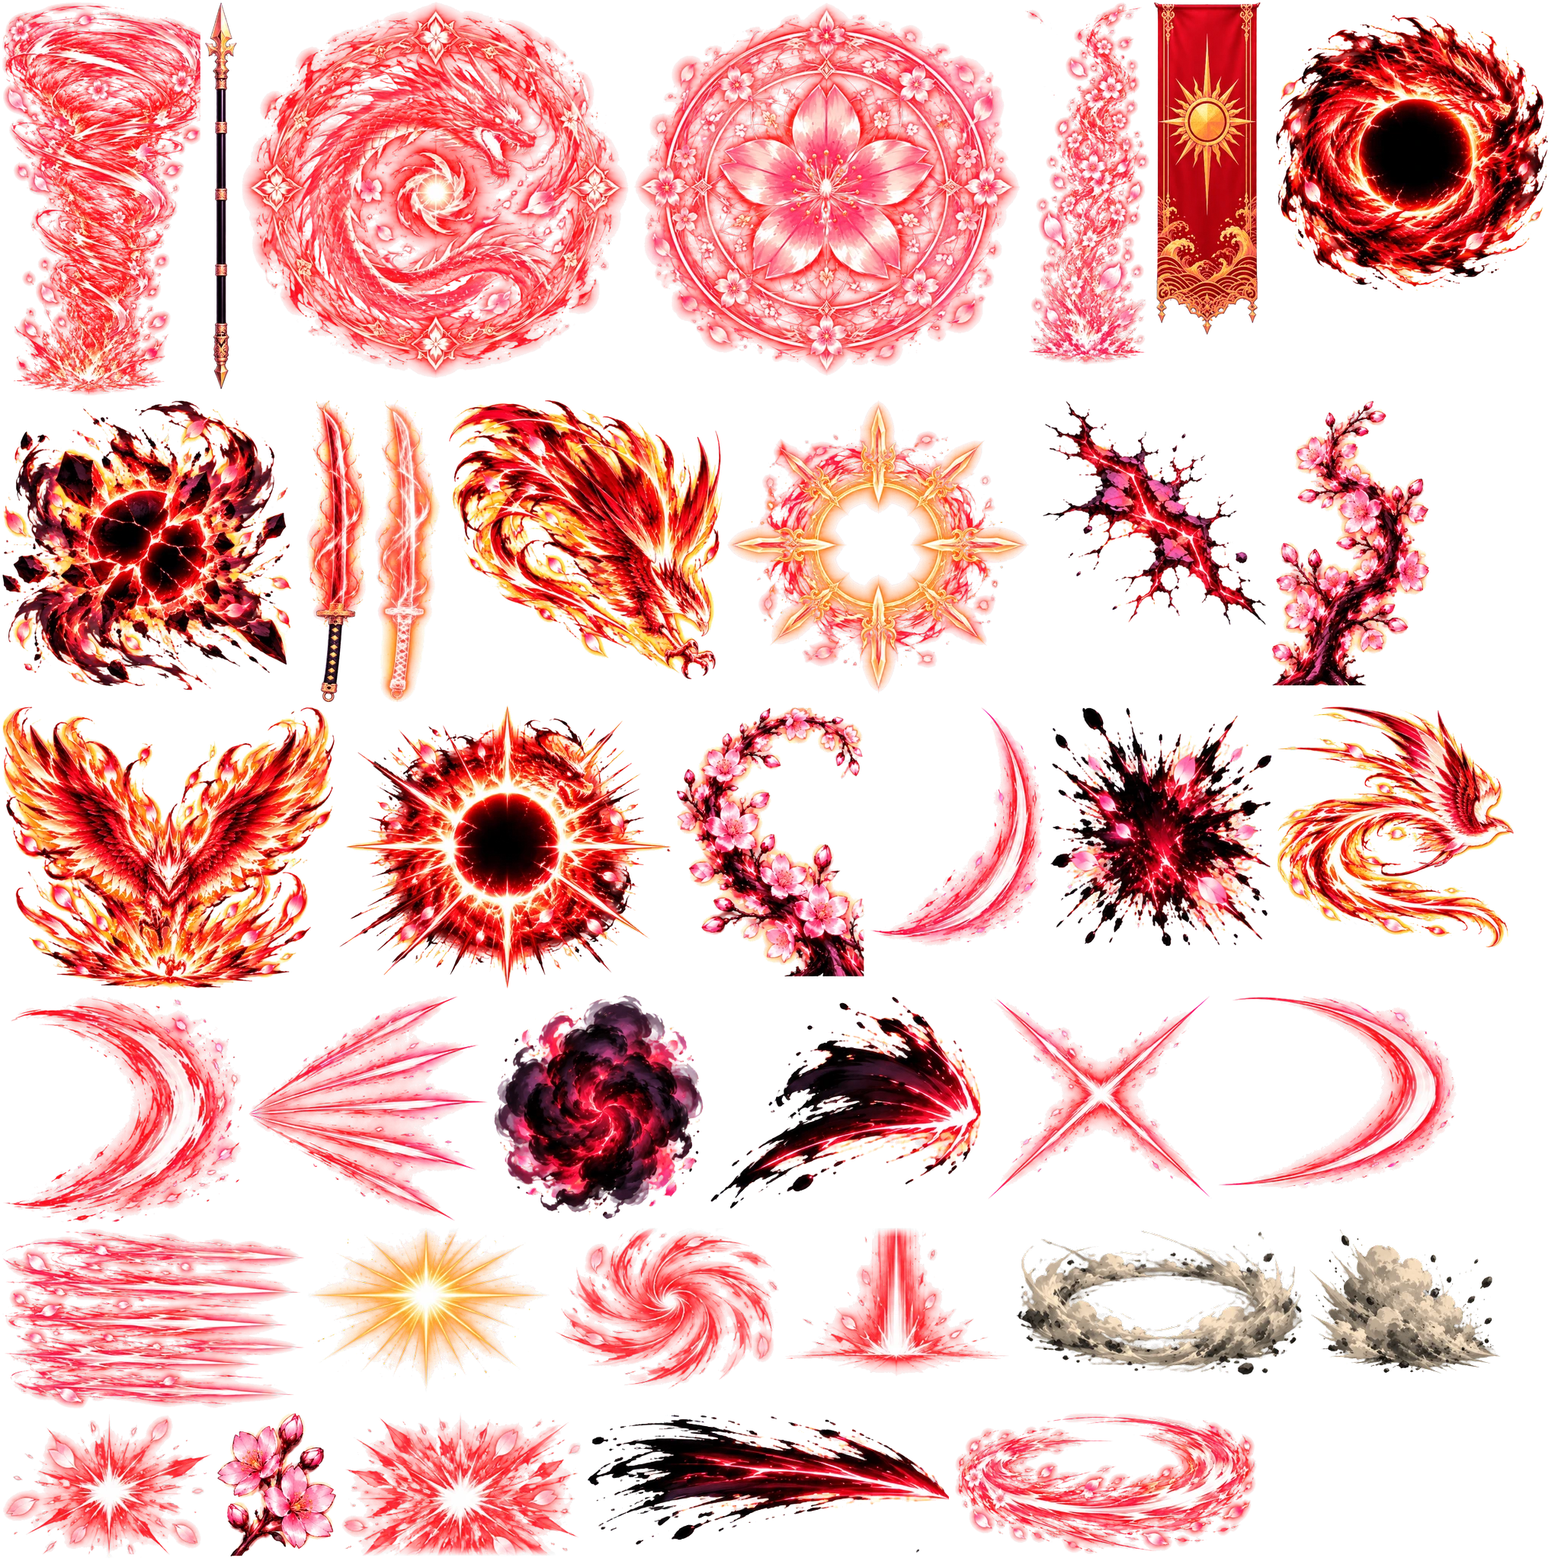
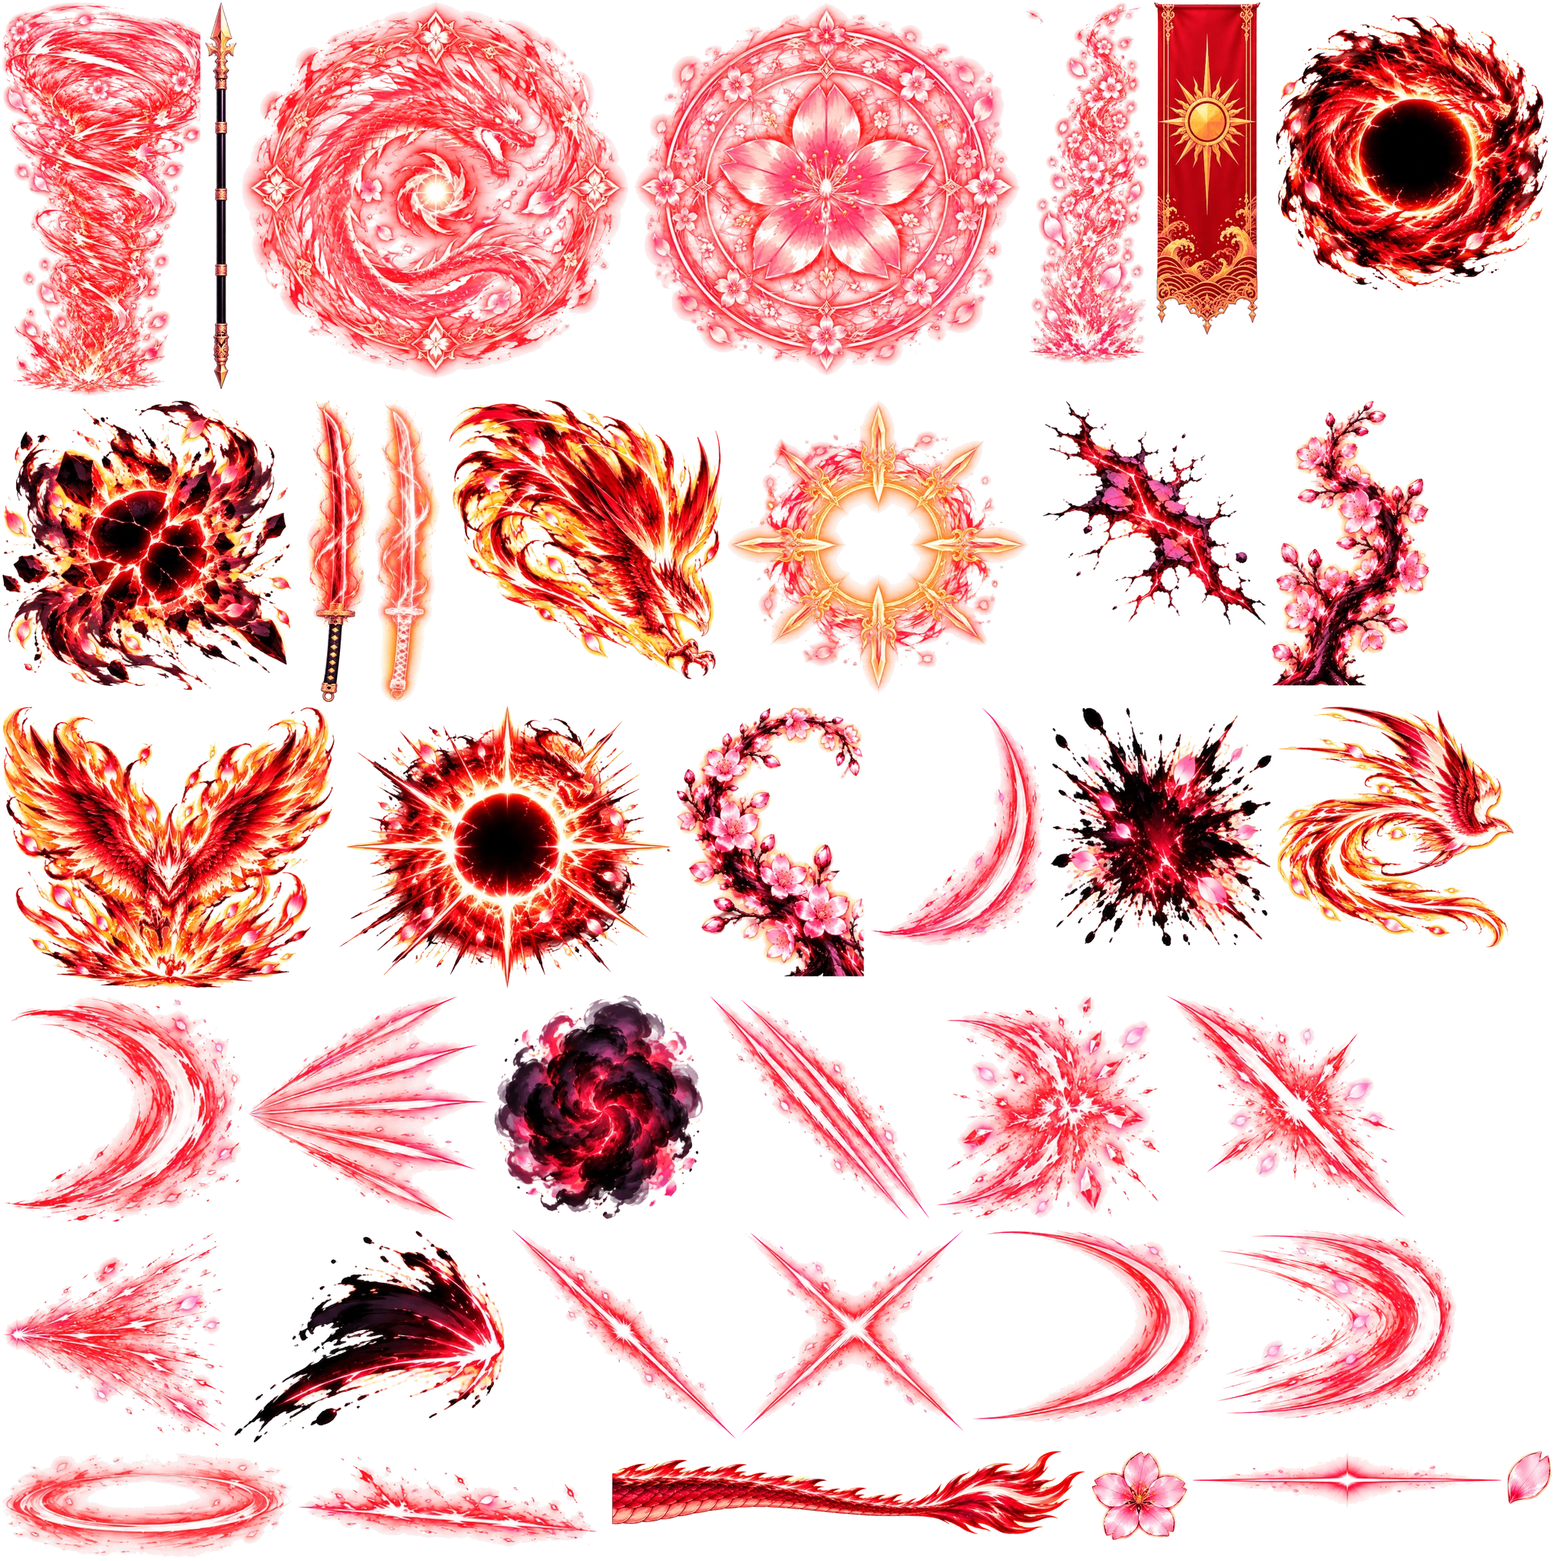
Samurai hits from the new GPT sheet (s11): every cut that lands leaves a real slash of the blade across the foe along the swing (each skill and hit its own line, mirrored when facing left; heavy and critical hits a heavier, brighter cut; Quick Slash's cross cut and parts of Hundred Cuts a double cut
Claude-Session: https://claude.ai/code/session_01AxppULVYpyTE4fFMuEDiRu

Changed region(s): [[0.0, 0.625, 0.9688, 1.0], [0.9688, 0.9062, 1.0, 0.9688]]

diff --git a/src/skills/SamuraiFx.ts b/src/skills/SamuraiFx.ts
@@ -14,6 +14,10 @@ export const KIT_URL = 'assets/final/skills/samurai/kit/';
 const TOP = 100000, GROUND = 2, SQUASH = 0.42, CRIMSON = 0xff3a4c, DUST = 0xd2a57a;
 /** The crack piece runs diagonally on its sheet; this turns it level. */
 const CRACK_TILT = -57;
+/** The slash-hit pieces run this many degrees down to the right on their sheet (s11). */
+const SLASH_TILT = 43;
+/** A trail of the blade (blade_trail) / a flipped piece: angle that points it along `ang` (deg on screen). */
+const along = (ang: number, left: boolean) => (left ? ang - 180 : ang);
 /** Hits whose cut "arrives late": a thin line stays on the foe and splits open a beat after. */
 const DELAYED = new Set(['shadow_step', 'iai_strike', 'dragon_eclipse', 'mirage']);
 
@@ -322,7 +326,10 @@ export class SamuraiFx {
       case 'iai_strike': this.iaiCut(r); break;
       case 'spin_cut': if (i === 1) this.spinRing(r, 1); break;
       case 'hundred_cuts': this.flurry(r, i); break;
-      case 'mirage': this.cut('cut_heavy', 190, side * 8, { x: q.x + side * 50, y: y0 - 56, depth: TOP + 3, flipX: side < 0, grow: 60, hold: 50, fade: 200 }); break;
+      case 'mirage':
+        this.cut('cut_heavy', 190, side * 8, { x: q.x + side * 50, y: y0 - 56, depth: TOP + 3, flipX: side < 0, grow: 60, hold: 50, fade: 200 });
+        this.spr({ name: 'blade_trail', x: q.x + side * 36, y: y0 - 50, w: 180, life: 240, flipX: side < 0, angle: side * 6, glow: 0.35, sx: kf([0, 0.6], [0.2, 1, out3]), a: kf([0, 0.9], [1, 0, inQ]) });
+        break;
       case 'kagemusha': this.kageVanish(r.origin); break; // he vanishes where he stood (every screen, from the cast)
       case 'falcon_dive': if (i === 1) this.falconImpact(r); else this.cut('cut_thin', 120, side * 30, { x: q.x + side * 30, y: y0 - 40, depth: q.y + 4, flipX: side < 0 }); break;
       case 'rising_sun': this.sunBurst(r); break;
@@ -337,17 +344,59 @@ export class SamuraiFx {
     void cam;
   }
 
-  /** A confirmed hit on a foe: the spark (bigger for heavy and critical hits) and the shared marks of what happened to it. */
-  confirmed(s: FinalSkill, hit: HitEvent, at: V3, reaction: string, heavy: boolean, crit: boolean): void {
+  /** The line a hit's cut leaves on the foe (deg on screen, for a swing to the right; null: not a cut — a burst instead). */
+  private slashLine(s: FinalSkill, hit: HitEvent): { ang: number; double?: boolean } | null {
+    const i = s.hits.indexOf(hit), R = () => rnd(-60, 60);
+    switch (s.id) {
+      case 'quick_slash': {
+        const st = s.chain?.stages.findIndex((x) => x.includes(hit)) ?? 0;
+        if (st === 1) return { ang: -32 };
+        if (st === 2) return { ang: s.chain!.stages[2].indexOf(hit) === 0 ? 30 : -30, double: true };
+        return st === 3 ? { ang: -72 } : { ang: 38 };
+      }
+      case 'shadow_step': return { ang: 4 };
+      case 'swallow_cut': return { ang: i === 1 ? 55 : -70 };
+      case 'iai_strike': return { ang: 2 };
+      case 'spin_cut': return { ang: i === 1 ? -14 : 12 };
+      case 'sword_wave': return { ang: 76 };
+      case 'hundred_cuts': return hit.heavy ? { ang: 18 } : { ang: R(), double: Math.random() < 0.4 };
+      case 'mirage': return { ang: 24 };
+      case 'blossom_storm': return { ang: hit.heavy ? -70 : rnd(-50, 50) };
+      case 'dragon_eclipse': return { ang: hit.heavy ? 0 : rnd(-80, 80) };
+      case 'falcon_dive': return { ang: i === 0 ? 78 : -80 };
+      case 'dragon_ascension': return { ang: i === 0 ? -80 : R() };
+      case 'god_of_blades': return i === 0 ? null : { ang: R() }; // (its strikes: the halo's katanas)
+      case 'tornado_blade': case 'phantom_blades': return { ang: R() };
+    }
+    return null; // (Rising Sun, Sakura Bind, Kagemusha: light, blossoms, ink — no blade)
+  }
+
+  /** A confirmed hit on a foe: a real cut of the blade across it along the swing (heavier and brighter for heavy and
+   *  critical hits), sparks sprayed the way it is thrown, and the shared marks of what happened to it. `from`: where the
+   *  blow came from (the cut and the sparks face away from there). */
+  confirmed(s: FinalSkill, hit: HitEvent, at: V3, reaction: string, heavy: boolean, crit: boolean, from?: { x: number; y: number }): void {
     if (!this.ready) return;
-    const x = at.x, y = at.y - at.z - 38, rapid = s.hits.length > 3 && !hit.heavy;
-    if (crit) { this.pop('burst_crit', x, y, rapid ? 120 : 165, { life: 300 }); this.petals(x, y, 4, 50, { depth: TOP + 3 }); }
+    const x = at.x, y = at.y - at.z - 38, rapid = s.hits.length > 3 && !hit.heavy, side = from && at.x < from.x - 2 ? -1 : 1;
+    const line = this.slashLine(s, hit), ang = line ? side * line.ang : 0;
+    if (line) {
+      const name = crit || (heavy && !rapid) ? 'slash_hit_heavy' : line.double ? 'slash_hit_double' : 'slash_hit';
+      const w = crit ? (rapid ? 170 : 230) : heavy && !rapid ? 196 : rapid ? 112 : line.double ? 160 : 150, life = crit ? 320 : heavy ? 280 : rapid ? 170 : 220;
+      this.spr({ name, x, y, depth: TOP + 4, w, life, angle: ang - SLASH_TILT, glow: crit ? 0.45 : heavy ? 0.35 : 0.2,
+        sx: kf([0, 0.5], [0.16, 1.06, out3], [1, 1.14]), sy: kf([0, 0.5], [0.16, 1.06, out3], [1, 1.14]), a: kf([0, 1], [0.5, 1], [1, 0, inQ]) });
+      if (crit) this.pop('burst_crit', x, y, rapid ? 100 : 130, { life: 260, depth: TOP + 3.6, glow: 0.3 });
+    } else if (crit) this.pop('burst_crit', x, y, rapid ? 120 : 165, { life: 300 });
     else if (heavy && !rapid) this.pop('burst', x, y, 140, { life: 280 });
     else this.pop('spark_s', x, y, rapid ? 64 : 86, { life: 190 });
+    if (crit) this.petals(x, y, 5, 56, { depth: TOP + 3 });
+    const up = reaction === 'launch' || reaction === 'float', thrown = up || reaction === 'knockdown' || heavy || (hit.reaction.push ?? 0) >= 14;
+    if (thrown && (!rapid || hit.heavy) && reaction !== 'cc') // sparks sprayed the way the foe is thrown (up when it is lifted)
+      this.spr({ name: 'spark_spray', x: x - side * 8, y, ox: side > 0 ? 0.05 : 0.95, oy: 0.45, flipX: side < 0, depth: TOP + 3.8, w: heavy ? 168 : 126, life: 260,
+        angle: up ? -side * 50 : side * rnd(-6, 10), sx: kf([0, 0.4], [0.25, 1, out3], [1, 1.12]), sy: kf([0, 0.6], [0.25, 1, out3]), a: kf([0, 1], [0.45, 1], [1, 0, inQ]) });
     if (reaction === 'launch') this.launchBeam(at.x, at.y);
     if (reaction === 'knockdown' || reaction === 'slam') { this.crack(at.x, at.y + 2, 120); this.dust(at.x, at.y, 120); }
     if (s.id === 'sakura_bind' && reaction === 'cc') this.cage(at.x, at.y, hit.reaction.hardCC?.ms ?? 2000);
-    if (DELAYED.has(s.id) && (s.id !== 'dragon_eclipse' || hit.heavy)) this.later(170, () => this.cut('cut_split', 150, rnd(-28, 28), { x, y: y - 4, depth: TOP + 5, grow: 40, hold: 70, fade: 220, glow: 0.7 }));
+    if (DELAYED.has(s.id) && (s.id !== 'dragon_eclipse' || hit.heavy)) // the cut arrives late: the line on the foe splits open a beat after
+      this.later(170, () => this.cut('cut_split', 150, line ? ang : rnd(-28, 28), { x, y: y - 4, depth: TOP + 5, grow: 40, hold: 70, fade: 220, glow: 0.7 }));
   }
 
   /** The Mirage Counter fired: the mirage the blow struck shatters where he stood (the counter cut comes as its hit). */
@@ -456,7 +505,11 @@ export class SamuraiFx {
     this.spr({ name: 'cut_split', x: mx, y: my, angle: ang, flipY: fl, w: len * 0.95, delay: 110, life: 360, glow: 0.65, depth: TOP + 3.5,
       sx: kf([0, 0.7], [0.2, 1, out3]), sy: kf([0, 0.3], [0.2, 1.1, out3], [1, 0.5]), a: kf([0, 1], [0.5, 1], [1, 0, inQ]) });
     this.pop('burst', x0 + side * 18, y0, 90 + 30 * lv, { life: 200 });
+    this.spr({ name: 'blade_trail', x: x0 + a.x * 36, y: y0 + a.y * 18, w: 170 + 30 * lv, life: 230, flipX: fl, angle: along(ang, fl), glow: 0.4, // the trail of the draw
+      sx: kf([0, 0.6], [0.2, 1, out3], [1, 1.08]), sy: kf([0, 0.8], [0.2, 1], [1, 0.6, inQ]), a: kf([0, 0.95], [0.4, 0.8], [1, 0, inQ]) });
     if (lv === 2) { // fully drawn: the floor is cut too, a shockwave runs down it, dust where the foes go down
+      this.spr({ name: 'ground_slash', x: q.x + a.x * len * 0.52, y: q.y + a.y * len * 0.52 + 2, angle: ang, flipY: fl, w: len * 0.95, depth: GROUND + 2.2, life: 1500, delay: 60, glow: 0.5,
+        sx: kf([0, 0.1], [0.1, 1, out3]), sy: kf([0, 1.4], [0.1, 1]), a: kf([0, 1], [0.55, 1], [1, 0, inQ]) });
       this.crack(q.x + a.x * len * 0.5, q.y + a.y * len * 0.5, len * 0.95, Math.atan2(a.y, a.x) * (180 / Math.PI));
       this.shock(q.x + a.x * len * 0.6, q.y + a.y * len * 0.6, 180);
       for (let i = 0; i < 4; i++) this.dust(q.x + a.x * len * (0.25 + 0.22 * i), q.y + a.y * len * (0.25 + 0.22 * i), 90, 110 + i * 40);
@@ -627,6 +680,8 @@ export class SamuraiFx {
     this.cut('cut_line', 640, ang, { x: at.x - a.x * 40, y, depth: TOP + 5, h: 80, grow: 50, hold: 120, fade: 320, glow: 0.9, sweep: 0, flipY: a.x < -0.01 });
     this.later(110, () => this.cut('cut_split', 520, ang, { x: at.x, y, depth: TOP + 5.5, grow: 50, hold: 120, fade: 300, glow: 0.8, sweep: 0 }));
     this.pop('burst_crit', at.x, y, 240, { life: 380, depth: TOP + 6 });
+    this.spr({ name: 'ground_slash', x: at.x, y: at.y + 2, angle: ang, flipY: a.x < -0.01, w: 460, depth: GROUND + 2.2, life: 1600, glow: 0.55,
+      sx: kf([0, 0.1], [0.1, 1, out3]), sy: kf([0, 1.5], [0.1, 1]), a: kf([0, 1], [0.6, 1], [1, 0, inQ]) });
     // the dragon flies along the cut, through the foe and away
     const dr = this.dragon(60), dx = Math.cos(ang * Math.PI / 180), dy = Math.sin(ang * Math.PI / 180), x0 = at.x - dx * 420, y0 = y - dy * 420, L = 1100, gap = 38, n = 16;
     this.add({ t: 0, step: (_dt, t) => {
@@ -936,31 +991,39 @@ export class SamuraiFx {
 
   // ------------------------------------------------------------------ Sword Wave: the flying crescent
 
+  /** Sword Wave: a crescent of crimson sword energy flying along its path (its own tail of light behind it), the trail of
+   *  the fling at his blade; on impact (a foe, a wall, its end) it shatters into shards and petals. */
   projectile(p: Projectile): void {
     if (!this.ready) return;
-    const s = this.ctx.scene;
-    const im = s.add.image(p.x, p.y - p.z, KIT, 'cut_heavy').setDepth(p.y + 2);
-    const gl = s.add.image(p.x, p.y - p.z, KIT, 'cut_heavy').setBlendMode(Phaser.BlendModes.ADD).setDepth(p.y + 2.01).setAlpha(0.55);
-    const me = this.ctx.casterPos(p.attackerId), ghosts = me ? (this.ctx.ghosts?.(p.attackerId) ?? []).map((g) => ({ im: s.add.image(p.x, p.y - p.z, KIT, 'cut_heavy'), dx: g.x - me.x, dy: g.y - me.y })) : [];
+    const s = this.ctx.scene, mk = (add: boolean) => s.add.image(p.x, p.y - p.z, KIT, 'wave_crescent').setOrigin(0.76, 0.5).setBlendMode(add ? Phaser.BlendModes.ADD : Phaser.BlendModes.NORMAL).setDepth(p.y + 2);
+    const im = mk(false), gl = mk(true).setAlpha(0.45);
+    const me = this.ctx.casterPos(p.attackerId), ghosts = me ? (this.ctx.ghosts?.(p.attackerId) ?? []).map((g) => ({ im: mk(false), dx: g.x - me.x, dy: g.y - me.y })) : [];
     this.waves.set(p, { im, gl, t: 0, trail: 0, ghosts }); // (the doubles throw theirs too: the same crescent beside his)
+    if (me) { // the fling: the trail of the swing at his blade
+      const fl = p.dx < -0.01, ang = screenAng(p.dx, p.dy);
+      this.spr({ name: 'blade_trail', x: me.x + p.dx * 30, y: me.y - me.z - 52, w: 150, life: 200, flipX: fl, angle: along(ang, fl), glow: 0.3,
+        sx: kf([0, 0.6], [0.25, 1, out3]), a: kf([0, 0.9], [1, 0, inQ]) });
+    }
   }
   projectileEnd(p: Projectile): void {
     const w = this.waves.get(p); if (!w) return;
     this.waves.delete(p);
-    const end = p.end ?? { x: p.x, y: p.y };
-    this.pop('spark_s', end.x, end.y - p.z, 70, { life: 180 });
+    const end = p.end ?? { x: p.x, y: p.y }, fl = p.dx < -0.01, ang = screenAng(p.dx, p.dy);
+    const shatter = (x: number, y: number, size: number) => this.spr({ name: 'wave_break', x, y, w: size, life: 320, flipX: fl, angle: along(ang, fl) * 0.3, glow: 0.35, depth: TOP + 4,
+      sx: kf([0, 0.6], [0.2, 1.05, out3], [1, 1.2]), sy: kf([0, 0.6], [0.2, 1.05, out3], [1, 1.2]), a: kf([0, 1], [0.45, 1], [1, 0, inQ]) });
+    shatter(end.x, end.y - p.z, 128);
     w.im.destroy(); w.gl.destroy();
-    for (const g of w.ghosts) { this.pop('spark_s', end.x + g.dx, end.y + g.dy - p.z, 60, { life: 160 }); g.im.destroy(); }
+    for (const g of w.ghosts) { shatter(end.x + g.dx, end.y + g.dy - p.z, 108); g.im.destroy(); }
   }
   private stepWaves(dt: number): void {
     for (const [p, w] of this.waves) {
       w.t += dt;
-      const ang = screenAng(p.dx, p.dy) + 4 * Math.sin(w.t / 45), k = 96 / w.im.width, fl = p.dx < -0.01, x = p.x, y = p.y - p.z;
-      for (const im of [w.im, w.gl]) im.setPosition(x, y).setAngle(ang).setScale(k, k * (1 + 0.06 * Math.sin(w.t / 35))).setFlipY(fl).setDepth(p.y + (im === w.gl ? 2.01 : 2));
-      for (const g of w.ghosts) g.im.setPosition(x + g.dx, y + g.dy).setAngle(ang).setScale(k, k * (1 + 0.06 * Math.sin(w.t / 35))).setFlipY(fl).setDepth(p.y + g.dy + 2);
-      if (w.t - w.trail > 32) { // afterimages and a petal trail
+      const ang = screenAng(p.dx, p.dy) + 3 * Math.sin(w.t / 45), k = 150 / w.im.width, fl = p.dx < -0.01, x = p.x, y = p.y - p.z, pulse = 1 + 0.05 * Math.sin(w.t / 35);
+      for (const im of [w.im, w.gl]) im.setPosition(x, y).setAngle(ang).setScale(k * (im === w.gl ? 1.04 : 1), k * pulse).setFlipY(fl).setDepth(p.y + (im === w.gl ? 2.01 : 2));
+      for (const g of w.ghosts) g.im.setPosition(x + g.dx, y + g.dy).setAngle(ang).setScale(k, k * pulse).setFlipY(fl).setDepth(p.y + g.dy + 2);
+      if (w.t - w.trail > 40) { // afterimages and a petal trail
         w.trail = w.t;
-        this.spr({ name: 'cut_heavy', x, y, depth: p.y + 1, w: 96, angle: ang, flipY: fl, add: true, life: 170, a: kf([0, 0.4], [1, 0, inQ]) });
+        this.spr({ name: 'wave_crescent', x, y, ox: 0.76, depth: p.y + 1, w: 150, angle: ang, flipY: fl, add: true, life: 150, a: kf([0, 0.24], [1, 0, inQ]) });
         if (Math.random() < 0.5) this.petals(x, y, 1, 22, { depth: p.y + 1, life: 600 });
       }
     }

diff --git a/src/skills/SkillFx.ts b/src/skills/SkillFx.ts
@@ -1052,7 +1052,7 @@ export class SkillFx {
   // ------------------------------------------------------------------ confirmed hits
 
   /** Confirmed hit feedback at the target: class impact, damage number, hit-stop + shake by tier. */
-  confirmed(s: FinalSkill, hit: HitEvent, at: V3, damage: number, reaction: string, local: boolean, combo: number, crit = false): void {
+  confirmed(s: FinalSkill, hit: HitEvent, at: V3, damage: number, reaction: string, local: boolean, combo: number, crit = false, from?: { x: number; y: number }): void {
     const tier = tierOf(s, hit);
     const k = IMPACT[s.cls] ?? IMPACT.warrior;
     const im = s.cls === 'warrior' ? 0.8 : 1; // MapleStory: a small, quick hit spark on the target (no flash over the body)
@@ -1060,7 +1060,7 @@ export class SkillFx {
       const rapid = s.hits.length > 3 && !hit.heavy; // storms / volleys: small sparks, never a white-out
       const sz = (rapid ? 100 : 150) * (tier === 'ultimate' ? 1.3 : hit.heavy ? 1.15 : 1), key = this.scene.textures.exists('afx-hit') ? 'afx-hit' : (this.impactFlip = !this.impactFlip) ? 'afx-impact' : 'afx-impact-b';
       this.play(key, at.x, at.y - at.z - 38, sz, sz, [25, 30, 35, 40, 45, 50, 60, 70], { depth: TOP + 2, fadeLast: 70 });
-    } else if (s.cls === 'samurai') this.sam.confirmed(s, hit, at, reaction, !!hit.heavy || tier === 'signature' || tier === 'ultimate', crit); // (its sparks and the marks of what happened to the foe)
+    } else if (s.cls === 'samurai') this.sam.confirmed(s, hit, at, reaction, !!hit.heavy || tier === 'signature' || tier === 'ultimate', crit, from); // (the cut of the blade on the foe and the marks of what happened to it)
     else if (s.id !== 'warrior_basic') this.spark(k.key, at.x, at.y - at.z - 38, k.frames, k.size * im * (tier === 'ultimate' ? 1.4 : hit.heavy ? 1.15 : 1), 0.8); // (a regular attack: none, as in MapleStory)
     // Ground dust only where the skill has no ground impact art of its own (kept subtle).
     if (s.cls !== 'samurai' && tier !== 'ultimate' && reaction === 'launch') this.spark(IMPACT.dust.key, at.x, at.y + 4, 6, 90, 0.5);

diff --git a/src/scenes/LegacyCourtyardScene.ts b/src/scenes/LegacyCourtyardScene.ts
@@ -2175,7 +2175,7 @@ export class LegacyCourtyardScene extends Phaser.Scene {
       if (this.orbs.cast !== run.castId) { this.orbs.cast = run.castId; this.orbs.n = Math.min(ORBS.max, this.orbs.n + 1); }
       this.orbs.lastAt = this.simMs;
     }
-    this.fx!.confirmed(s, hit, at, damage, reaction, true, idx, crit);
+    this.fx!.confirmed(s, hit, at, damage, reaction, true, idx, crit, run ? this.hitFrom(run, hit) : undefined);
     if (damage > 0) { // your hit on another fighter: it shudders through the hit-stop (fighting-game feel)
       const sh = Math.max(90, Math.min(220, this.fx!.hitStopLeft + 60));
       if (target === BOT_ID) this.bot?.view.shake(sh); else this.pvp?.remotes.get(target)?.shake(sh);
@@ -2247,7 +2247,7 @@ export class LegacyCourtyardScene extends Phaser.Scene {
     out.damage = this.takeDamage(out.damage);
     if (trial && out.damage > 0) this.hitBlinkUntil = this.simMs + HIT_IFRAMES;
     if (run.attackerId === BOT_ID) this.logHit(false, s, out, this.body, this.kin.z);
-    this.fx!.confirmed(s, hit, at, out.damage, out.reaction, false, out.hitIndex);
+    this.fx!.confirmed(s, hit, at, out.damage, out.reaction, false, out.hitIndex, false, this.hitFrom(run, hit));
     if (this.arena && out.damage > 0) { // the arena: a hit lands on you — a beat of hit-stop, your body shudders, heavy ones shake the screen
       const heavy = !!hit.heavy || out.reaction === 'launch' || out.reaction === 'knockdown' || s.slot === 7;
       this.fx!.hitStopLeft = Math.max(this.fx!.hitStopLeft, heavy ? 110 : 60);

diff --git a/tools/skills/kit.py b/tools/skills/kit.py
@@ -40,6 +40,9 @@ SHEETS = {
     's8_banner.png': [('banner_cloth', (0, 0, 460, 1024), 440), ('banner_pole', (460, 0, 760, 1024), 512), ('katana', (760, 0, 1170, 1024), 400), ('katana_ghost', (1170, 0, 1536, 1024), 400)],
     's9_wind.png': [('tornado', (0, 0, 475, 1024), 520), ('petal_column', (475, 0, 794, 1024), 480), ('wind_ring', (794, 0, 1536, 523), 400), ('wind_lines', (794, 523, 1536, 1024), 400)],
     's10_birds.png': [('falcon_dive', (0, 0, 659, 724), 400), ('falcon_spread', (659, 0, 1477, 724), 440), ('swallow', (1477, 0, 2172, 724), 320)],
+    's11_hits.png': [  # slash hits (upper-left → lower-right), the sword wave, the ground slash, the blade trail
+        ('slash_hit', (0, 80, 370, 500), 300), ('slash_hit_heavy', (370, 80, 770, 500), 320), ('slash_hit_double', (770, 80, 1136, 500), 300), ('spark_spray', (1136, 80, 1536, 500), 300),
+        ('wave_crescent', (0, 540, 404, 1024), 320), ('wave_break', (404, 540, 745, 1024), 300), ('ground_slash', (745, 540, 1150, 1024), 400), ('blade_trail', (1150, 540, 1536, 1024), 400)],
 }
 MARGIN = 40           # how far past its box a piece may reach (its own glow)
 BODY_SLICES = 8       # the dragon body is also cut into this many frames along its length (the game chains them)
